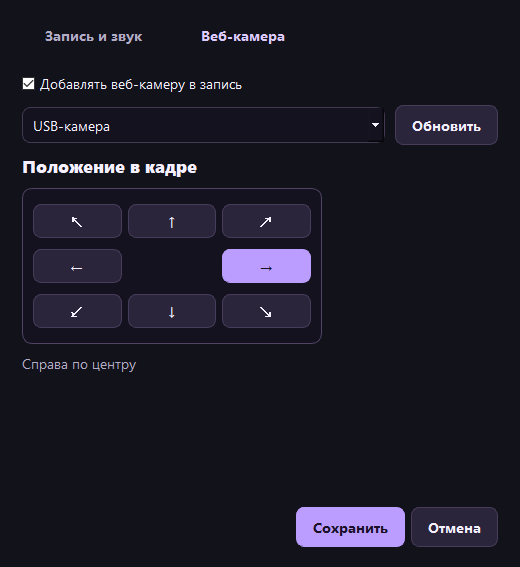
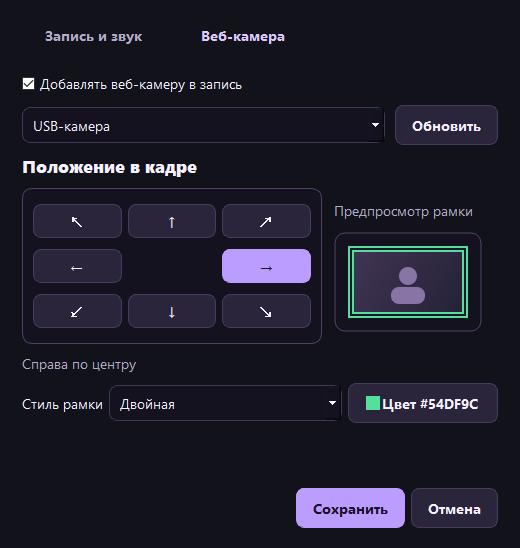
Add webcam border customization

diff --git a/recording_settings.py b/recording_settings.py
@@ -5,16 +5,22 @@ from pathlib import Path
 from subprocess import TimeoutExpired
 
 from PyQt5.QtCore import QSettings, QStandardPaths, Qt
+from PyQt5.QtGui import QColor, QIcon, QPixmap
 from PyQt5.QtWidgets import (
-    QButtonGroup, QCheckBox, QComboBox, QDialog, QDialogButtonBox, QFileDialog, QFrame,
+    QButtonGroup, QCheckBox, QColorDialog, QComboBox, QDialog, QDialogButtonBox, QFileDialog, QFrame,
     QGridLayout, QHBoxLayout, QLabel, QLineEdit, QMessageBox, QProgressBar,
     QPushButton, QSlider, QTabWidget, QVBoxLayout, QWidget,
 )
 
+from editor_ui import WebcamBorderPreview
 from recording_audio import (
     MicrophoneTest, SOURCES, device_name, list_audio_devices, microphone_meter_level,
 )
-from webcam_capture import DEFAULT_WEBCAM_POSITION, WEBCAM_POSITIONS, webcam_devices, webcam_position
+from webcam_capture import (
+    DEFAULT_WEBCAM_BORDER_COLOR, DEFAULT_WEBCAM_BORDER_STYLE, DEFAULT_WEBCAM_POSITION,
+    WEBCAM_BORDER_STYLES, WEBCAM_POSITIONS, webcam_border_color, webcam_border_layers,
+    webcam_border_style, webcam_devices, webcam_position,
+)
 
 
 MIN_MIC_GAIN = -12
@@ -42,6 +48,8 @@ class RecordingSettings:
     webcam_device: str = ""
     webcam_name: str = ""
     webcam_position: str = DEFAULT_WEBCAM_POSITION
+    webcam_border_style: str = DEFAULT_WEBCAM_BORDER_STYLE
+    webcam_border_color: str = DEFAULT_WEBCAM_BORDER_COLOR
 
     def audio_selections(self):
         return {
@@ -73,6 +81,12 @@ class RecordingPreferences:
             webcam_device=store.value("recording/webcam_device", "", type=str),
             webcam_name=store.value("recording/webcam_name", "", type=str),
             webcam_position=store.value("recording/webcam_position", DEFAULT_WEBCAM_POSITION, type=str),
+            webcam_border_style=webcam_border_style(
+                store.value("recording/webcam_border_style", DEFAULT_WEBCAM_BORDER_STYLE, type=str)
+            ),
+            webcam_border_color=webcam_border_color(
+                store.value("recording/webcam_border_color", DEFAULT_WEBCAM_BORDER_COLOR, type=str)
+            ),
         )
 
     def save(self, settings):
@@ -87,6 +101,8 @@ class RecordingPreferences:
         store.setValue("recording/webcam_device", settings.webcam_device)
         store.setValue("recording/webcam_name", settings.webcam_name)
         store.setValue("recording/webcam_position", settings.webcam_position)
+        store.setValue("recording/webcam_border_style", settings.webcam_border_style)
+        store.setValue("recording/webcam_border_color", settings.webcam_border_color)
         store.sync()
         if store.status() != QSettings.NoError:
             raise OSError("Не удалось записать файл настроек.")
@@ -276,14 +292,67 @@ class RecordingSettingsDialog(QDialog):
             grid.addWidget(button, row, column)
         self.webcam_position_label.setText(webcam_position(selected)[0])
         self.webcam_positions.buttonClicked.connect(self.on_webcam_position_changed)
-        layout.addWidget(placement, alignment=Qt.AlignLeft)
+        preview_row = QHBoxLayout()
+        preview_row.setSpacing(12)
+        preview_row.addWidget(placement)
+        sample = QVBoxLayout()
+        sample.addStretch()
+        preview_label = QLabel("Предпросмотр рамки")
+        preview_label.setObjectName("muted")
+        sample.addWidget(preview_label)
+        self.border_preview = WebcamBorderPreview()
+        sample.addWidget(self.border_preview)
+        sample.addStretch()
+        preview_row.addLayout(sample)
+        preview_row.addStretch()
+        layout.addLayout(preview_row)
         layout.addWidget(self.webcam_position_label)
+
+        border_controls = QWidget()
+        border_row = QHBoxLayout(border_controls)
+        border_row.setContentsMargins(0, 0, 0, 0)
+        border_label = QLabel("Стиль рамки")
+        self.border_style = QComboBox()
+        self.border_style.setAccessibleName(border_label.text())
+        border_label.setBuddy(self.border_style)
+        for style, (name, _) in WEBCAM_BORDER_STYLES.items():
+            self.border_style.addItem(name, style)
+        style = webcam_border_style(settings.webcam_border_style)
+        self.border_style.setCurrentIndex(self.border_style.findData(style))
+        self.border_style.currentIndexChanged.connect(self.update_webcam_border)
+        self.border_color = webcam_border_color(settings.webcam_border_color)
+        self.border_color_button = QPushButton()
+        self.border_color_button.setAccessibleName("Цвет рамки")
+        self.border_color_button.clicked.connect(self.choose_webcam_border_color)
+        border_row.addWidget(border_label)
+        border_row.addWidget(self.border_style, 1)
+        border_row.addWidget(self.border_color_button)
+        layout.addWidget(border_controls)
+        self.update_webcam_border()
+
         self.webcam_enabled.toggled.connect(placement.setEnabled)
         self.webcam_enabled.toggled.connect(self.webcam_device.setEnabled)
+        self.webcam_enabled.toggled.connect(border_controls.setEnabled)
         placement.setEnabled(settings.webcam_enabled)
         self.webcam_device.setEnabled(settings.webcam_enabled)
+        border_controls.setEnabled(settings.webcam_enabled)
         layout.addStretch()
         return tab
+
+    def choose_webcam_border_color(self):
+        color = QColorDialog.getColor(QColor(self.border_color), self, "Цвет рамки веб-камеры")
+        if color.isValid():
+            self.border_color = color.name()
+            self.update_webcam_border()
+
+    def update_webcam_border(self):
+        layers = webcam_border_layers(self.border_style.currentData(), self.border_color)
+        self.border_preview.set_layers(layers)
+        swatch = QPixmap(14, 14)
+        swatch.fill(QColor(self.border_color))
+        self.border_color_button.setIcon(QIcon(swatch))
+        self.border_color_button.setText(f"Цвет {self.border_color.upper()}")
+        self.border_color_button.setEnabled(bool(layers))
 
     def on_webcam_position_changed(self, button):
         self.webcam_position_label.setText(button.accessibleName())
@@ -415,6 +484,7 @@ class RecordingSettingsDialog(QDialog):
                 directory, microphone_gain_db=self.mic_gain.value(),
                 webcam_enabled=self.webcam_enabled.isChecked(),
                 webcam_device=webcam_device, webcam_name=webcam_name, webcam_position=position,
+                webcam_border_style=self.border_style.currentData(), webcam_border_color=self.border_color,
                 **options,
             )
             self.preferences.save(settings)

diff --git a/main.py b/main.py
@@ -22,7 +22,7 @@ from operation_history import history
 from recording_audio import SOURCES
 from recording_settings import RecordingPreferences, RecordingSettingsDialog, format_gain
 from screen_recorder import TARGET_FPS, VK_F9, VK_F12, RecordingHotkey, ScreenRecorder
-from webcam_capture import webcam_position
+from webcam_capture import WEBCAM_BORDER_STYLES, webcam_border_style, webcam_position
 
 
 APP_ICON = Path(__file__).with_name("video-editor.ico")
@@ -278,6 +278,7 @@ class VideoEditor(QMainWindow):
         fields = [
             ("format", "Формат"), ("fps", "Частота"), ("directory", "Папка"),
             *SOURCES.items(), ("webcam", "Веб-камера"), ("webcam_position", "Положение"),
+            ("webcam_border", "Рамка"),
         ]
         for row, (field, caption) in enumerate(fields):
             details.addWidget(label(caption, "muted"), row, 0)
@@ -323,12 +324,18 @@ class VideoEditor(QMainWindow):
         if not settings.webcam_enabled:
             summary["webcam"].set_full_text("Выключена")
             summary["webcam_position"].set_full_text("—")
+            summary["webcam_border"].set_full_text("—")
         elif self.recorder.webcam_warning:
             summary["webcam"].set_full_text("Недоступна", self.recorder.webcam_warning)
             summary["webcam_position"].set_full_text("—")
+            summary["webcam_border"].set_full_text("—")
         else:
             summary["webcam"].set_full_text(settings.webcam_name or "Камера")
             summary["webcam_position"].set_full_text(webcam_position(settings.webcam_position)[0])
+            name, layers = WEBCAM_BORDER_STYLES[webcam_border_style(settings.webcam_border_style)]
+            if layers:
+                name = f"{name} · {settings.webcam_border_color.upper()}"
+            summary["webcam_border"].set_full_text(name)
         for source in SOURCES:
             if source not in selections:
                 text = "Выключен"

diff --git a/webcam_capture.py b/webcam_capture.py
@@ -16,10 +16,34 @@ WEBCAM_POSITIONS = {
     "bottom_right": ("Снизу справа", "W-w-18", "H-h-18"),
 }
 DEFAULT_WEBCAM_POSITION = "bottom_right"
+DEFAULT_WEBCAM_BORDER_STYLE = "thin"
+DEFAULT_WEBCAM_BORDER_COLOR = "#bb9dff"
+WEBCAM_BORDER_STYLES = {
+    "thin": ("Тонкая", ((4, None),)),
+    "wide": ("Широкая", ((8, None),)),
+    "double": ("Двойная", ((2, None), (2, "#1b1629"), (2, None))),
+    "none": ("Без рамки", ()),
+}
 
 
 def webcam_position(position):
     return WEBCAM_POSITIONS.get(position, WEBCAM_POSITIONS[DEFAULT_WEBCAM_POSITION])
+
+
+def webcam_border_style(style):
+    return style if style in WEBCAM_BORDER_STYLES else DEFAULT_WEBCAM_BORDER_STYLE
+
+
+def webcam_border_color(color):
+    if isinstance(color, str) and re.fullmatch(r"#[0-9a-fA-F]{6}", color):
+        return color.lower()
+    return DEFAULT_WEBCAM_BORDER_COLOR
+
+
+def webcam_border_layers(style, color):
+    _, layers = WEBCAM_BORDER_STYLES[webcam_border_style(style)]
+    accent = webcam_border_color(color)
+    return [(width, fixed_color or accent) for width, fixed_color in layers]
 
 
 def webcam_devices():
@@ -40,12 +64,16 @@ def webcam_devices():
     return devices
 
 
-def webcam_overlay(graph, position):
+def webcam_overlay(graph, position, border_style=DEFAULT_WEBCAM_BORDER_STYLE, border_color=DEFAULT_WEBCAM_BORDER_COLOR):
     _, x, y = webcam_position(position)
+    border = "".join(
+        f",pad=iw+{2 * width}:ih+{2 * width}:{width}:{width}:color=0x{color[1:]}"
+        for width, color in webcam_border_layers(border_style, border_color)
+    )
     return (
         f"{graph}[desktop];"
         "[0:v]setpts=PTS-STARTPTS,scale=320:180:force_original_aspect_ratio=decrease:"
-        "force_divisible_by=2,setsar=1,pad=iw+8:ih+8:4:4:color=0xbb9dff[camera];"
+        f"force_divisible_by=2,setsar=1{border}[camera];"
         f"[desktop]setpts=PTS-STARTPTS[desktop_start];"
         f"[desktop_start][camera]overlay=x={x}:y={y}:eof_action=pass:repeatlast=0"
     )

diff --git a/screen_recorder.py b/screen_recorder.py
@@ -17,7 +17,9 @@ from logger import logger
 from recording_audio import AudioCapture, SOURCES, mux_audio_args
 from recording_segments import JoinSegments
 from recording_settings import RecordingSettings, default_recording_directory
-from webcam_capture import DEFAULT_WEBCAM_POSITION, webcam_overlay
+from webcam_capture import (
+    DEFAULT_WEBCAM_BORDER_COLOR, DEFAULT_WEBCAM_BORDER_STYLE, DEFAULT_WEBCAM_POSITION, webcam_overlay,
+)
 
 
 TARGET_FPS = 60
@@ -99,13 +101,16 @@ class RecordingHotkey:
         return False
 
 
-def recording_args(path, audio=False, camera="", position=DEFAULT_WEBCAM_POSITION):
+def recording_args(
+    path, audio=False, camera="", position=DEFAULT_WEBCAM_POSITION,
+    border_style=DEFAULT_WEBCAM_BORDER_STYLE, border_color=DEFAULT_WEBCAM_BORDER_COLOR,
+):
     capture = (
         f"ddagrab=output_idx=0:framerate={TARGET_FPS}:draw_mouse=0,"
         "hwdownload,format=bgra,pad=ceil(iw/2)*2:ceil(ih/2)*2"
     )
     if camera:
-        capture = webcam_overlay(capture, position)
+        capture = webcam_overlay(capture, position, border_style, border_color)
     graph = f"{capture}[screen]"
     if audio:
         # Timestamp only the first frame. The clock branch must reach EOF so
@@ -277,6 +282,8 @@ class ScreenRecorder(QObject):
         if self.webcam_in_use:
             options["camera"] = self.settings.webcam_device
             options["position"] = self.settings.webcam_position
+            options["border_style"] = self.settings.webcam_border_style
+            options["border_color"] = self.settings.webcam_border_color
             self.webcam_timeout.start(12000)
         self.process.start("ffmpeg", recording_args(self.partial_path, **options))
 

diff --git a/editor_ui.py b/editor_ui.py
@@ -175,6 +175,40 @@ class RecordingStatus(QTextEdit):
         self.setFixedHeight(ceil(size.height()))
 
 
+class WebcamBorderPreview(QWidget):
+    def __init__(self):
+        super().__init__()
+        self.setAccessibleName("Предпросмотр рамки веб-камеры")
+        self.setFixedSize(148, 100)
+        self.layers = []
+
+    def set_layers(self, layers):
+        self.layers = layers
+        self.update()
+
+    def paintEvent(self, event):
+        painter = QPainter(self)
+        painter.setRenderHint(QPainter.Antialiasing)
+        painter.setPen(QPen(QColor("#514467"), 1))
+        painter.setBrush(QColor("#14121e"))
+        painter.drawRoundedRect(QRectF(self.rect()).adjusted(1, 1, -1, -1), 10, 10)
+
+        image = QRectF(20, 20, 108, 60)
+        border = sum(width for width, _ in self.layers)
+        bounds = image.adjusted(-border, -border, border, border)
+        for width, color in reversed(self.layers):
+            painter.fillRect(bounds, QColor(color))
+            bounds.adjust(width, width, -width, -width)
+        gradient = QLinearGradient(image.topLeft(), image.bottomRight())
+        gradient.setColorAt(0, QColor("#403452"))
+        gradient.setColorAt(1, QColor("#252238"))
+        painter.fillRect(image, gradient)
+        painter.setPen(Qt.NoPen)
+        painter.setBrush(QColor("#8875a6"))
+        painter.drawEllipse(QPointF(74, 44), 9, 9)
+        painter.drawRoundedRect(QRectF(57, 55, 34, 17), 8, 8)
+
+
 class FramePreview(QLabel):
     empty_text = "Откройте видео для предпросмотра"
 

diff --git a/README.md b/README.md
@@ -8,7 +8,7 @@
 
 - **Запись экрана в Windows** по F12 с паузой и продолжением по F9. Целевая частота записи — 60 кадров/с. Индикатор **REC** и фактический FPS записи появляются в левом верхнем углу экрана.
 - **Звук игры и микрофона.** Для каждого источника можно выбрать устройство или отключить его. В настройках есть проверка микрофона с индикатором уровня и регулировка усиления.
-- **Веб-камера в записи.** Вставку можно разместить в одном из восьми положений: в углах или по центру любой стороны кадра.
+- **Веб-камера в записи.** Вставку можно разместить в одном из восьми положений: в углах или по центру любой стороны кадра. Цвет и стиль рамки настраиваются.
 - **MP4 для YouTube.** Видео кодируется в H.264, звук сохраняется в AAC. Папка сохранения настраивается.
 - **Редактор видео.** Есть предпросмотр, временная шкала и свойства файла. Обрезка через FFmpeg использует копирование потоков, чтобы сохранить исходное качество.
 
@@ -46,11 +46,11 @@ python -m venv .venv
 
 Захватывается первый экран DXGI. Звук игры берётся с выбранных динамиков или наушников вместе с другими звуками, которые воспроизводятся на этом устройстве. Если выбраны оба аудиоисточника, они сводятся в одну стереодорожку.
 
-Рамка веб-камеры повторяет пропорции изображения, поэтому в ней помещается весь кадр без чёрных полос. При недоступной веб-камере приложение продолжит запись экрана и покажет предупреждение. Если захват экрана прервётся, приложение проверит полученный фрагмент и добавит записанный звук, когда видео пригодно к сохранению.
+Рамка веб-камеры повторяет пропорции изображения, поэтому в ней помещается весь кадр без чёрных полос. Во вкладке **Настройки записи → Веб-камера** можно выбрать цвет и стиль рамки с предпросмотром. При недоступной веб-камере приложение продолжит запись экрана и покажет предупреждение. Если захват экрана прервётся, приложение проверит полученный фрагмент и добавит записанный звук, когда видео пригодно к сохранению.
 
 | Запись и звук | Веб-камера и положение в кадре |
 | --- | --- |
-| ![Папка сохранения, устройства, усиление и проверка микрофона](docs/screenshots/audio-settings.png) | ![Выбор веб-камеры и схема из восьми положений](docs/screenshots/webcam-settings.png) |
+| ![Папка сохранения, устройства, усиление и проверка микрофона](docs/screenshots/audio-settings.png) | ![Выбор позиции, цвета и стиля рамки веб-камеры](docs/screenshots/webcam-settings.png) |
 
 ## Обрезка видео
 
